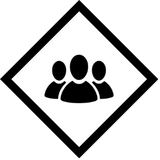
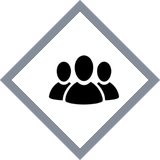
fix: review findings on the band palette edges
Five gaps the code review caught in the band-colour unification.

The non-AWS info pins were black-and-white while the code and both keys
now say Info grey: rebuilt from their monitor siblings with the glyph
recoloured to the locked #8A93A0, so the pin and the legend agree at
the quiet end too. The aws monitor pins did not exist at all, sending
an AWS monitor-band alert to the stock red Google marker when the
fallback was used; they now ship, wearing the same Advice yellow as
info, which is what the band resolves to under AWS.

HazardSeverity.info.colorAws had silently become the Info grey when the
alias was redefined, while the band enum resolves AWS info to Advice
yellow, colouring the same alert two ways. It is Advice yellow now.
Cluster badges for info-dominant groups fell through to black, which
the key had just stopped calling a band; they take the Info grey.

The expanded-card header gradients re-typed the locked hexes as
literals, and the Action tier kept the legacy #FF8C00 orange, so an
Action alert's card header was a different orange from its own pin.
Gradient starts now reference AppColors (the single definition) with
only the dark stops as literals, and the lock test covers the severity
words and the gradient starts so neither can drift again.

Claude-Session: https://claude.ai/code/session_01Pd3ePi3D4RAZngZrHxX51B

Changed region(s): [[0.0, 0.0, 1.0, 1.0], [0.2812, 0.3125, 0.75, 0.6562]]

diff --git a/lib/features/shared/views/widgets/alert_card_style.dart b/lib/features/shared/views/widgets/alert_card_style.dart
@@ -148,10 +148,14 @@ abstract final class AlertCardStyle {
   // ── V3 expanded-card treatments (alert detail screen) ──────────────────
 
   /// Official (AWS and non-AWS) expanded-card header band.
+  ///
+  /// Anchored on the locked Action hex, like the pin and the key. The old
+  /// start (#FF8C00) was the header-gradient orange, so an Action alert's
+  /// expanded card was a different orange from its own pin.
   static const officialHeaderGradient = LinearGradient(
     begin: Alignment.topLeft,
     end: Alignment.bottomRight,
-    colors: [Color(0xFFFF8C00), Color(0xFFFF6B01)],
+    colors: [AppColors.watchAndAct, Color(0xFFB8560E)],
   );
 
   /// Official expanded-card header, coloured by severity — the top of the
@@ -172,11 +176,14 @@ abstract final class AlertCardStyle {
         ? severity == HazardSeverity.advice
         : band == HazardSeverityBand.monitor;
 
+    // Every gradient starts on the band's own locked hex (AppColors, the
+    // single definition) and falls to its dark stop. Re-typing the hexes
+    // here is how a second palette grows back.
     if (isCriticalTier) {
       return const LinearGradient(
         begin: Alignment.topLeft,
         end: Alignment.bottomRight,
-        colors: [Color(0xFFDA1F2D), Color(0xFF9E1520)],
+        colors: [AppColors.emergency, Color(0xFF9E1520)],
       );
     }
     if (isActionTier) return officialHeaderGradient;
@@ -184,13 +191,13 @@ abstract final class AlertCardStyle {
       return const LinearGradient(
         begin: Alignment.topLeft,
         end: Alignment.bottomRight,
-        colors: [Color(0xFFF5C518), Color(0xFFDCA900)],
+        colors: [AppColors.advice, Color(0xFFDCA900)],
       );
     }
     return const LinearGradient(
       begin: Alignment.topLeft,
       end: Alignment.bottomRight,
-      colors: [Color(0xFF8A93A0), Color(0xFF6E7683)],
+      colors: [AppColors.info, Color(0xFF6E7683)],
     );
   }
 

diff --git a/test/band_colour_lock_test.dart b/test/band_colour_lock_test.dart
@@ -1,5 +1,4 @@
-import 'dart:ui';
-
+import 'package:flutter/painting.dart';
 import 'package:flutter_test/flutter_test.dart';
 import 'package:hazard_app/features/shared/enums/hazard_severity_band_types.dart';
 import 'package:hazard_app/features/shared/enums/hazard_severity_types.dart';
@@ -52,6 +51,19 @@ void main() {
       expect(HazardSeverity.watchAndAct.colorAws, action);
       expect(HazardSeverity.emergency.colorAws, critical);
       expect(HazardSeverity.info.colorNonAws, info);
+      // AWS has no grey: info under AWS is Advice yellow, matching the
+      // band enum, so one alert is never coloured two ways.
+      expect(HazardSeverity.info.colorAws, monitor);
+    });
+
+    test('expanded-card headers start on the locked hexes', () {
+      LinearGradient headerFor(final HazardSeverityBand band) =>
+          AlertCardStyle.officialHeaderGradientFor(isAws: false, band: band);
+
+      expect(headerFor(HazardSeverityBand.critical).colors.first, critical);
+      expect(headerFor(HazardSeverityBand.action).colors.first, action);
+      expect(headerFor(HazardSeverityBand.monitor).colors.first, monitor);
+      expect(headerFor(HazardSeverityBand.info).colors.first, info);
     });
   });
 }

diff --git a/lib/features/shared/enums/hazard_severity_types.dart b/lib/features/shared/enums/hazard_severity_types.dart
@@ -34,7 +34,10 @@ enum HazardSeverity {
   Color get colorAws {
     return switch (this) {
       HazardSeverity.unknown => AppColors.transparent,
-      HazardSeverity.info => AppColors.info,
+      // AWS never renders the grey info band: its quietest level is
+      // Advice, so info under AWS wears the same yellow the band enum
+      // resolves to. Grey here would colour the same alert two ways.
+      HazardSeverity.info => AppColors.advice,
       HazardSeverity.advice => AppColors.advice,
       HazardSeverity.watchAndAct => AppColors.watchAndAct,
       HazardSeverity.emergency => AppColors.emergency,

diff --git a/lib/features/map/providers/map_provider.dart b/lib/features/map/providers/map_provider.dart
@@ -2054,7 +2054,9 @@ class MapProvider extends StateNotifier<MapProviderState> {
       HazardSeverity.emergency => AppColors.emergency,
       HazardSeverity.watchAndAct => AppColors.watchAndAct,
       HazardSeverity.advice => AppColors.advice,
-      _ => AppColors.black,
+      // The quiet end of the scale is the Info grey. Black is not a band,
+      // and the key says so.
+      _ => AppColors.info,
     };
     final cacheKey = '${cluster.label}_${severity.name}';
 
